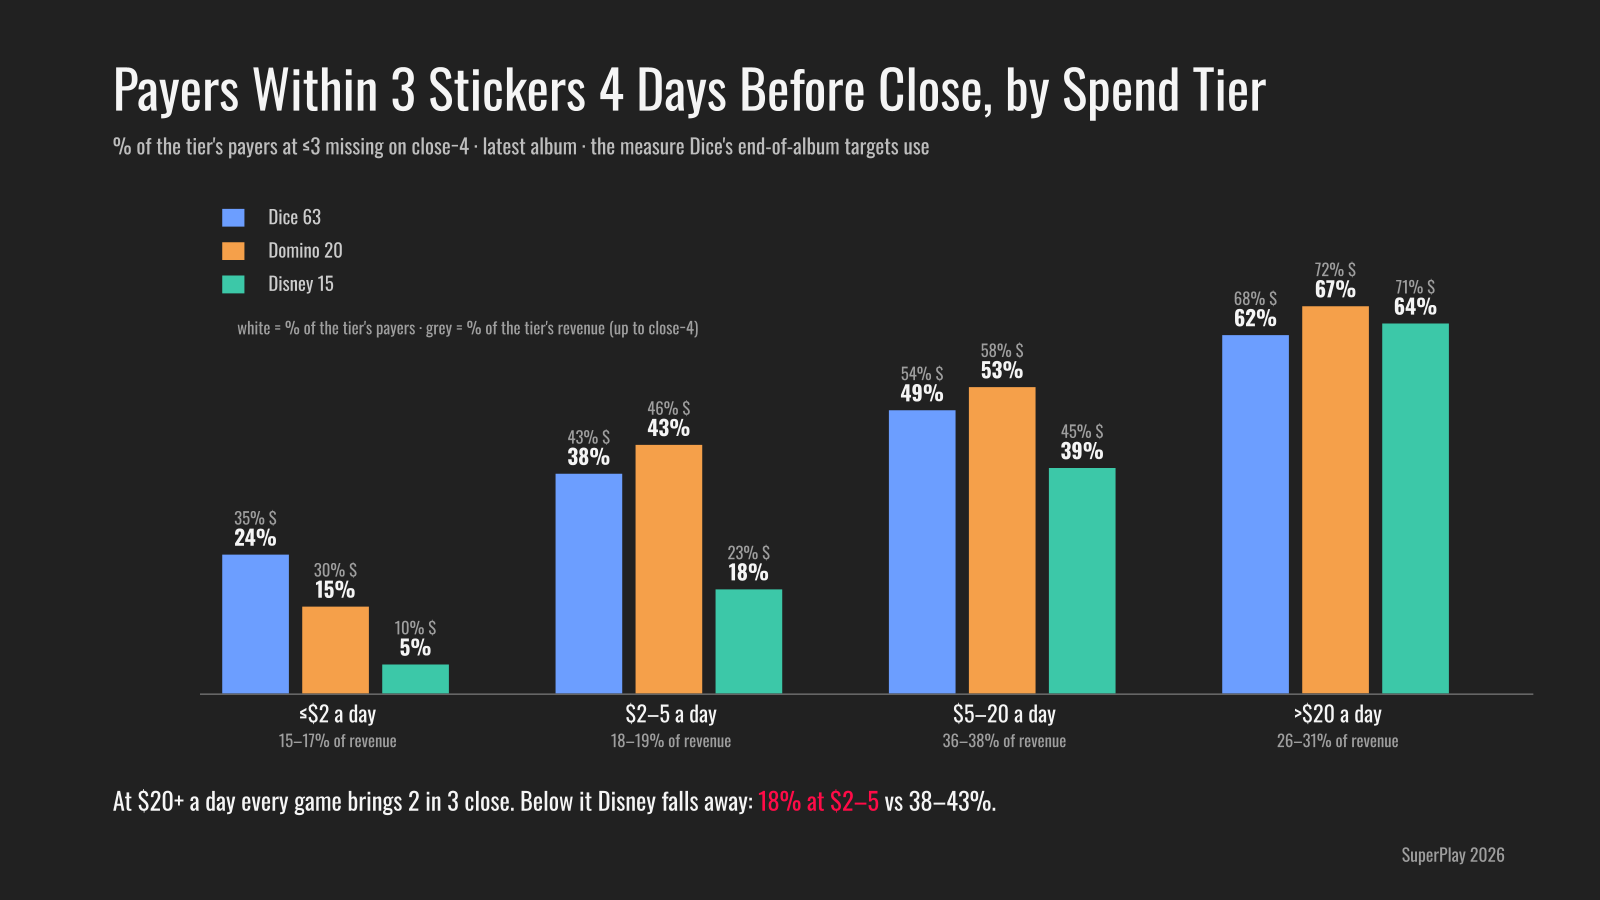
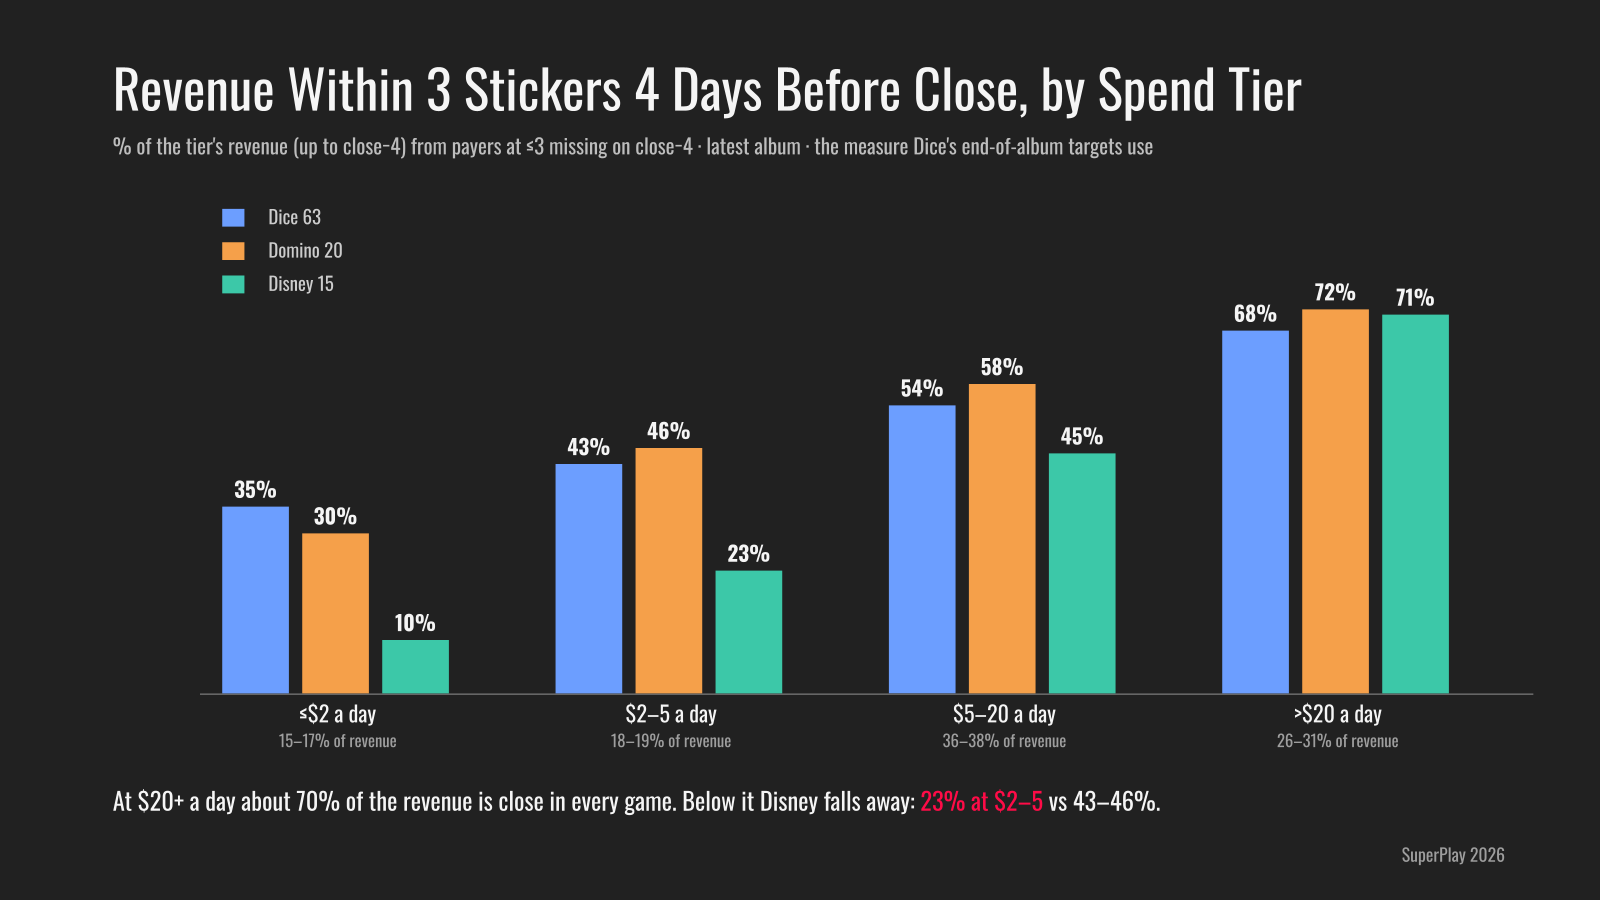
Topic 5 slides revenue-only; handoff for next session

diff --git a/claude/next-session-prompt-2026-10-24.md b/claude/next-session-prompt-2026-10-24.md
@@ -1,0 +1,18 @@
+# Next session (written 2026-10-23, end of session; worktree continue-analysis-74c990, branch claude/all144-steps-2026-10-23)
+
+## Eden's request for the new session (her words, translated)
+"Show the change from Dice 61 to 63, Domino 19 to 20 and Disney 14 to 15. Show that in these albums the end was much stronger in revenue, that bringing players to close-to-finish (FU) at the end leads to a stronger end, and say that Dice 61 and Domino 19 also had a problem, not only Disney."
+
+## What exists already (use these numbers; same population and tier rules)
+- `claude/topic5-tiers-2026-10-23.md` + `.sql`: per album and spend tier (≤$2 / 2–5 / 5–20 / >20 $/day before the last quarter), revenue share of the tier from payers at ≤3 missing on close−4:
+  - Dice 61 → 63: 19→35, 28→43, 37→54, 58→68%
+  - Domino 19 → 20: 3→30, 8→46, 31→58, 63→72%
+  - Disney 14 → 15: 16→10, 28→23, 45→45, 69→71%
+  (player shares and end status per tier are in the same doc.)
+- End-lift by album (last 4 days ARPDAU vs album) is in topic 1 docs (`claude/end-lift-by-experience-2026-10-22.md`, deck slides "Every Album Ends Higher…"). Needed: the end lift for exactly Dice 61/63, Domino 19/20, Disney 14/15 on the same population, to link "more payers close at close−4" with "stronger end revenue" (correlation across 6 albums — not causal; say so).
+- Open data check: none yet for end-lift on these 6 albums with the topic-5 population — write one query (dry run first).
+
+## ALBUM END deck state (1vtwRvOAocgcZfrxl8uBfpOzIt7wkGbkCtxEBgFB4FvM)
+- Topic 5 slides at the end: t5a_slide (end status by tier), t5b_slide (now revenue only: "Revenue Within 3 Stickers 4 Days Before Close, by Spend Tier"), t5c_slide (direction table, revenue only). Notes written.
+- Rule (Eden): never delete in this deck, only add. Design agent made dz5–dz9, dz33 copies; originals of 5–9 disappeared (not by us) — Eden handled.
+- Topics 0–4 closed (messages in `claude/data-story-review-2026-10-21.md`); topic 5 in progress (this request), then topic 6 (after the album).

diff --git a/claude/data-story-review-2026-10-21.md b/claude/data-story-review-2026-10-21.md
@@ -107,3 +107,4 @@ Topic map: 0 definitions and denominator · 1 where the money is in the album ·
 - Topic 5 reruns done (`topic5-left-behind-2026-10-23.md`): far payers (4+) = Dice 18-31%, Domino 22-49%, Disney 43% of album revenue; last week vs before −39% to −63% $/day, active 70-85%; heavy near-missers 0.4-1% of payers, 6-11% of revenue, last week −30% to −46% $/day, −24% to −38% play; finishers +36% to +98%. Message not yet approved.
 - 2026-10-23: design agent made redesign copies dz5–dz9, dz33 in ALBUM END (originals untouched by it). It reported that originals of slides 5–9 (h…_361, _546, _442, _625, _664) were gone at the end of its run; they were present in my listing earlier. Asked Eden.
 - Topic 5 split (Eden 2026-10-23: 5 tiers, reach at <=3 missing on close-4, targets as direction only) — `topic5-tiers-2026-10-23.md`. Message (approved with the mockup): "The end reaches the strongest payers in every game; in Disney the middle tiers are left behind — 26% of album revenue." Built at the end of ALBUM END: t5a_slide "End Status of Payers by Spend Tier, Latest Album", t5b_slide "Payers Within 3 Stickers 4 Days Before Close, by Spend Tier", t5c_slide "Direction: One End Goal per Spend Tier"; notes written. Images claude/slides/album-end-t5a/b/c-2026-10-23.png.
+- 2026-10-23 (end): t5b/t5c changed to revenue share only (Eden). Eden's next request (new session): show the album-to-album change (Dice 61→63, Domino 19→20, Disney 14→15), that the end was stronger in revenue when more payers were close at close−4, and that Dice 61 / Domino 19 also had the problem. Handoff: claude/next-session-prompt-2026-10-24.md.
